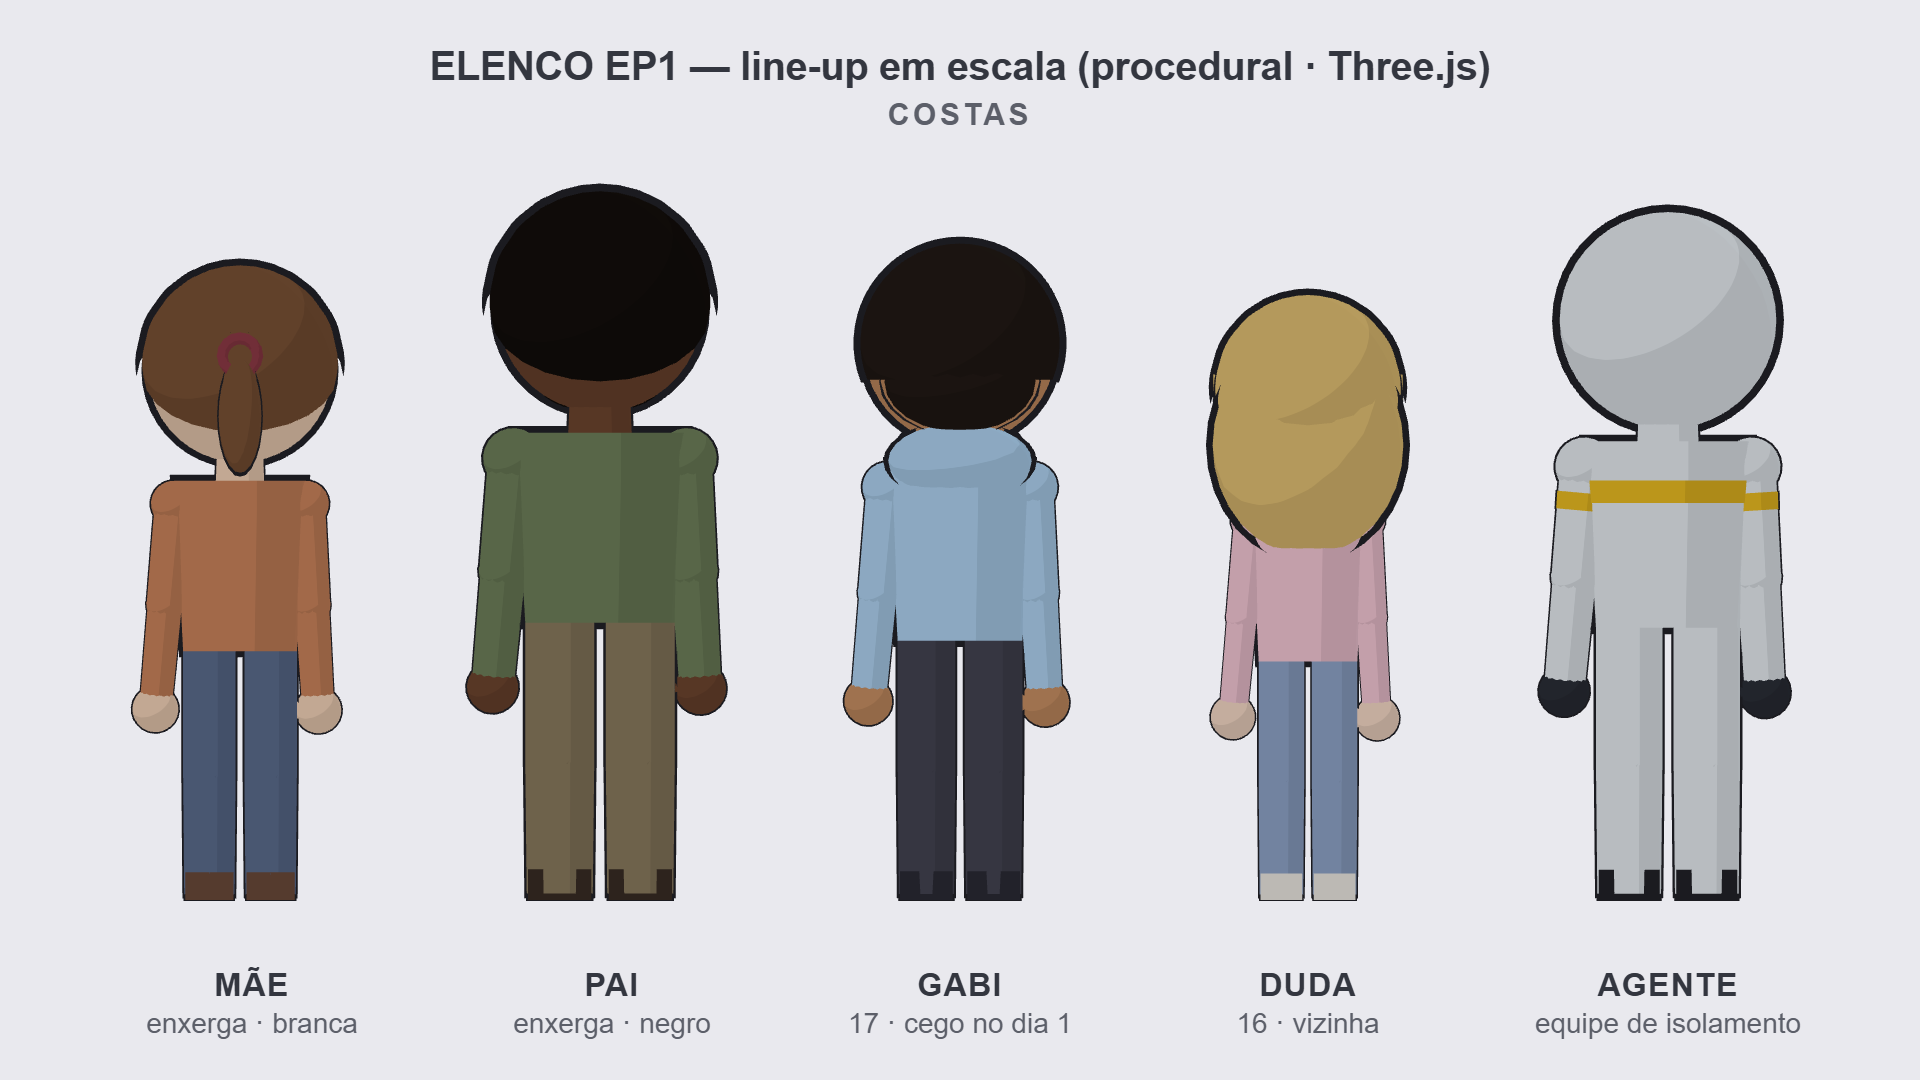
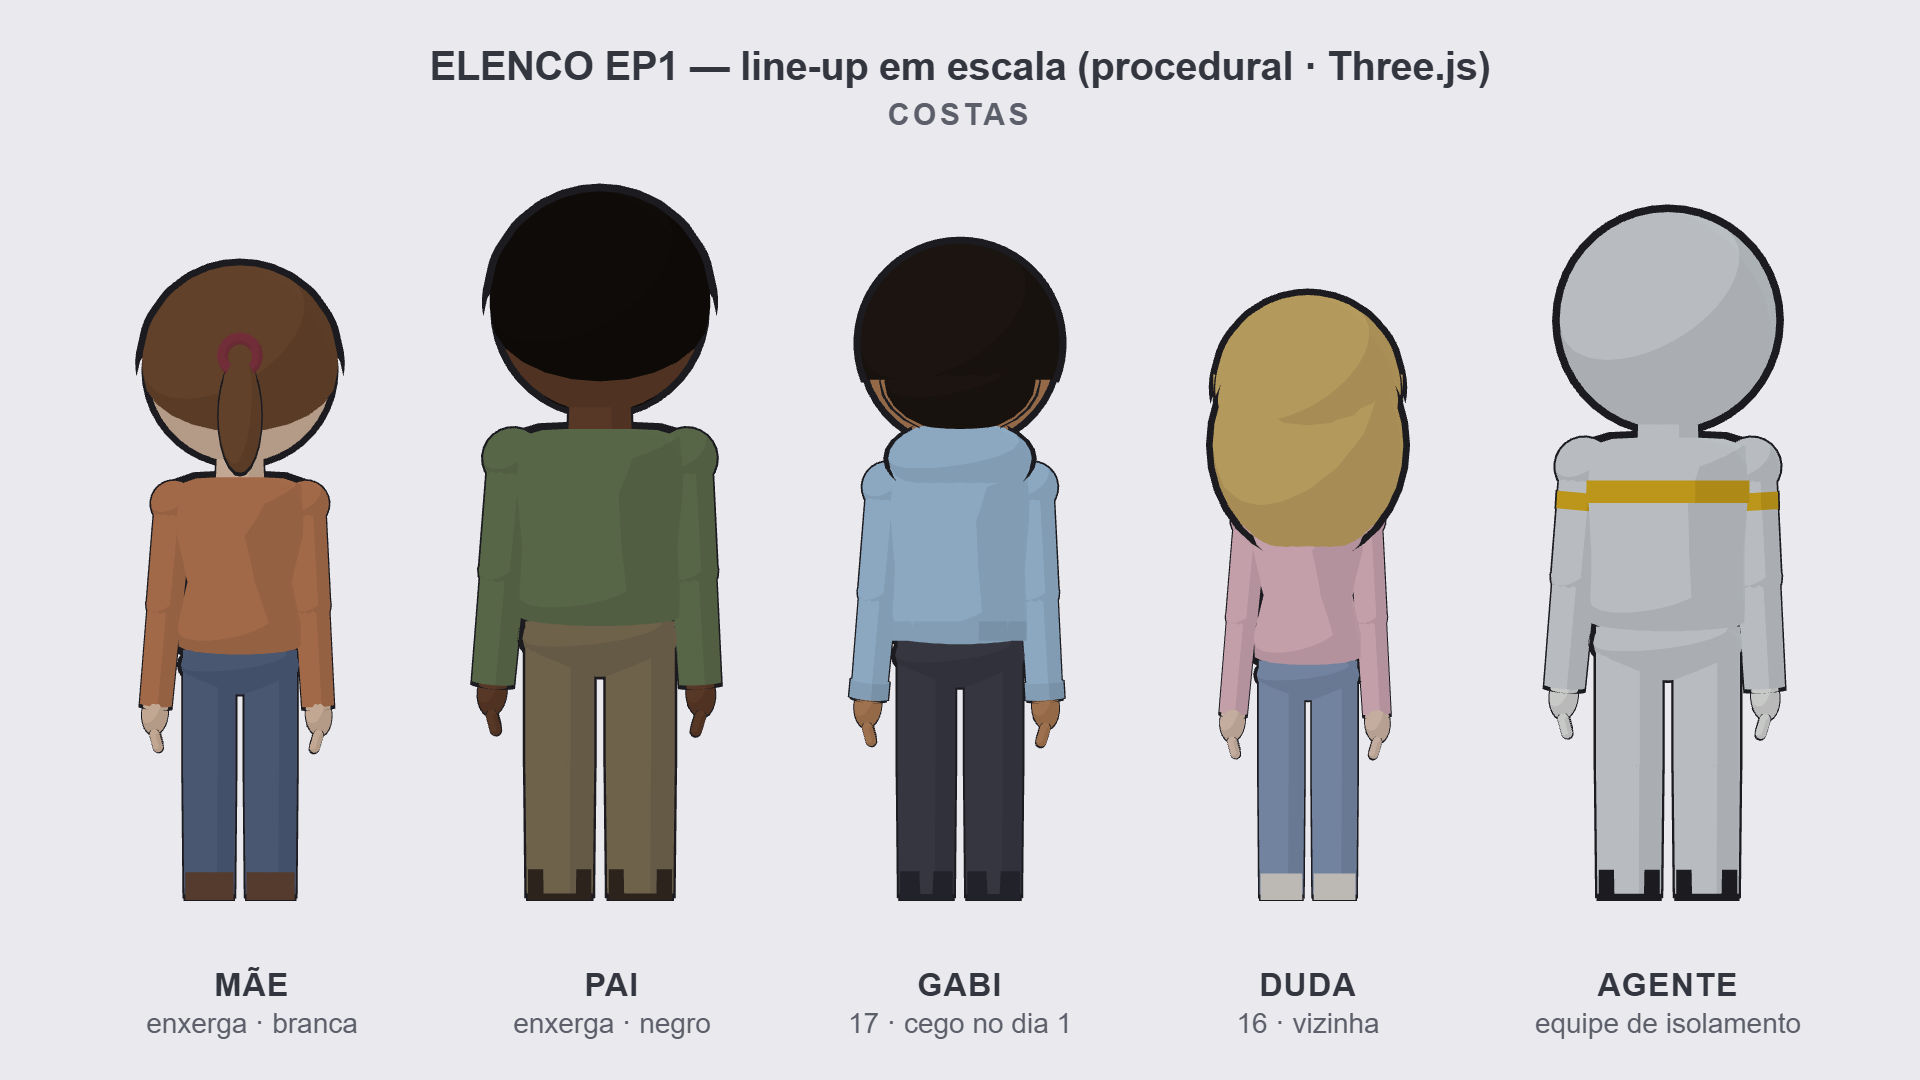
Rig: mãos com dedos (luva branca no agente), cintura torneada e quadril
Elenco.mao(g, lado, forma, u) com formas relaxada/aberta/segura/punho.

diff --git a/producao/ep1/assets/rig/elenco.js b/producao/ep1/assets/rig/elenco.js
@@ -11,19 +11,19 @@
   // Fichas. alt = escala da altura (Gabi = 1); larg = largura do corpo.
   const FICHAS = {
     gabi: { nome: "Gabi", alt: 1.0, larg: 1.0, pele: 0xc68e62, cabelo: 0x241c17, cabeloEstilo: "gabi",
-            roupa: 0xaed0ec, calca: 0x454551, sapato: 0x2d2d36, capuz: true, fone: 0x24242a },
+            roupa: 0xaed0ec, calca: 0x454551, sapato: 0x2d2d36, capuz: true, fone: 0x24242a, cintura: 0.93 },
     mae:  { nome: "Mãe", alt: 0.96, larg: 0.95, pele: 0xf0cfb4, cabelo: 0x7a5236, cabeloEstilo: "rabo", blush: 0xf0aaa6,
-            roupa: 0xc9835b, calca: 0x5d6d8c, sapato: 0x6b4b3a },
+            roupa: 0xc9835b, calca: 0x5d6d8c, sapato: 0x6b4b3a, cintura: 0.8 },
     pai:  { nome: "Pai", alt: 1.07, larg: 1.12, pele: 0x6e4630, cabelo: 0x16110e, cabeloEstilo: "crespo",
-            barba: true, roupa: 0x6f7f5a, calca: 0x8a7a5e, sapato: 0x3a2e26 },
+            barba: true, roupa: 0x6f7f5a, calca: 0x8a7a5e, sapato: 0x3a2e26, cintura: 0.93 },
     duda: { nome: "Duda", alt: 0.92, larg: 0.86, pele: 0xf3d6c2, cabelo: 0xe0bd72, cabeloEstilo: "longo", blush: 0xf3aeb2, sobrancelha: 0x9a7038,
-            roupa: 0xf2c4d0, calca: 0x8fa3c4, sapato: 0xe9e4dc },
+            roupa: 0xf2c4d0, calca: 0x8fa3c4, sapato: 0xe9e4dc, cintura: 0.78 },
     // adulta de TV: olhos menores, batom, brincos, blazer com lapela sobre blusa clara
     reporter: { nome: "Repórter", alt: 0.97, larg: 0.95, pele: 0xd9a77f, cabelo: 0x1a1412, cabeloEstilo: "chanel",
                 blush: 0xd98c7e, roupa: 0x7a2e3a, calca: 0x2b2b33, sapato: 0x1b1b20,
-                olho: 0.82, batom: 0xa3333f, brinco: 0xd9b44a, lapela: 0x5e1f2a, blusa: 0xf1ece4 },
+                olho: 0.82, batom: 0xa3333f, brinco: 0xd9b44a, lapela: 0x5e1f2a, blusa: 0xf1ece4, cintura: 0.8 },
     agente: { nome: "Agente", alt: 1.05, larg: 1.1, pele: 0xd9b08c, roupa: 0xe4e8eb, calca: 0xe4e8eb,
-              sapato: 0x24242a, mao: 0x2d3038, epi: true, faixa: 0xe8b923 },
+              sapato: 0x24242a, mao: 0xf7f7f3, epi: true, faixa: 0xe8b923, cintura: 0.95 },   // luva branca
   };
 
   // a cabeça gira pela base do pescoço (PESCOCO); centro da cabeça em pé = CABECA_Y
@@ -61,7 +61,12 @@
     }
     const pL = leg(-1), pR = leg(1);
     // tronco (topo em 1,82) + pescoço: a cabeça não fica enterrada no corpo
-    add(new THREE.CylinderGeometry(0.30 * w, 0.26 * w, 0.74, 20), P.roupa, 0, 1.45, 0);
+    // tronco torneado (ombro, peito, cintura, quadril) e bacia na cor da calça ligando as pernas
+    const c = P.cintura || 0.88;
+    const perfil = [[0, 1.84], [0.2, 1.83], [0.29, 1.8], [0.305, 1.72], [0.3, 1.58], [0.3 * c, 1.38], [0.285, 1.2], [0.28, 1.1], [0.2, 1.065], [0, 1.06]]
+      .map(([r, y]) => new THREE.Vector2(r * w, y - 1.45)).reverse();   // de baixo p/ cima (normais para fora), centrado: o contorno escala em volta do tronco
+    add(new THREE.LatheGeometry(perfil, 24), P.roupa, 0, 1.45, 0);
+    add(sphere(0.27 * w, 20, 14), P.calca, 0, 1.02, 0, g, { s: [1, 0.5, 0.8] });
     add(new THREE.CylinderGeometry(0.105 * w, 0.115 * w, 0.26, 14), P.epi ? P.roupa : P.pele, 0, 1.9, 0);
     if (P.capuz) { // moletom (referência do usuário, 2026-11-22): capuz caído em gola, cordões, bolso canguru, ribanas
       const rib = new THREE.Color(P.roupa).multiplyScalar(0.86).getHex();
@@ -75,7 +80,7 @@
       add(new THREE.BoxGeometry(0.4, 0.22, 0.05), P.roupa, 0, 1.25, 0.265, g, { semContorno: true });          // bolso canguru: só costuras
       add(new THREE.BoxGeometry(0.26, 0.012, 0.012), rib, 0, 1.36, 0.292, g, { semContorno: true });
       for (const s of [-1, 1]) add(new THREE.BoxGeometry(0.012, 0.2, 0.012), rib, s * 0.18, 1.26, 0.293, g, { r: [0, 0, s * 0.35], semContorno: true });   // boca do bolso
-      add(new THREE.CylinderGeometry(0.268 * w, 0.262 * w, 0.08, 20), rib, 0, 1.12, 0);                          // barra de ribana
+      add(new THREE.CylinderGeometry(0.286 * w, 0.283 * w, 0.08, 20), rib, 0, 1.12, 0);                          // barra de ribana
     }
     if (P.fone && P.foneNoPescoco) {   // fone fora do pescoço por padrão (usuário não gostou do aro preto) // objeto-assinatura do Gabi: fone no pescoço
       // aro largo e solto, caído para a frente sobre o peito (não aperta o pescoço); conchas na clavícula
@@ -89,7 +94,7 @@
       for (const s of [-1, 1]) add(new THREE.BoxGeometry(0.08, 0.44, 0.04), P.lapela, s * 0.1, 1.7, 0.285, g, { r: [-0.1, 0, -s * 0.3] });
     }
     if (P.faixa) { // EPI: faixa refletiva no peito
-      add(new THREE.CylinderGeometry(0.297 * w, 0.29 * w, 0.09, 20), P.faixa, 0, 1.62, 0);
+      add(new THREE.CylinderGeometry(0.308 * w, 0.308 * w, 0.09, 20), P.faixa, 0, 1.62, 0);
     }
     // braços (ombro -> cotovelo, com juntas para posar)
     function arm(side) {
@@ -101,8 +106,19 @@
       add(sphere(0.085 * w, 14, 10), P.roupa, 0, 0, 0, el);                              // cotovelo sem fresta ao dobrar
       add(new THREE.CylinderGeometry(0.08 * w, 0.075 * w, 0.44, 14), P.roupa, 0, -0.22, 0, el);
       if (P.capuz) add(new THREE.CylinderGeometry(0.083 * w, 0.083 * w, 0.07, 14), new THREE.Color(P.roupa).multiplyScalar(0.86).getHex(), 0, -0.41, 0, el);   // punho de ribana
-      add(sphere(0.10, 14, 12), P.mao || P.pele, 0, -0.46, 0, el);
-      return { sh, el };
+      // mão (referência do usuário): palma achatada voltada para o corpo, 4 dedos e polegar à frente
+      const cm = P.mao || P.pele, mao = new THREE.Group(); mao.position.set(0, -0.41, 0); mao.scale.setScalar(1.35); el.add(mao);
+      add(sphere(0.07, 14, 12), cm, 0, -0.05, 0, mao, { s: [0.6, 1.0, 0.9] });
+      const dedos = [];
+      for (let i = 0; i < 4; i++) {
+        const d = new THREE.Group(); d.position.set(0, -0.1, (i - 1.5) * 0.031); mao.add(d);
+        add(new THREE.CapsuleGeometry(0.016, 0.055 - Math.abs(i - 1.2) * 0.01, 4, 8), cm, 0, -0.035, 0, d);
+        dedos.push(d);
+      }
+      const pol = new THREE.Group(); pol.position.set(-side * 0.012, -0.045, 0.05); mao.add(pol);
+      add(new THREE.CapsuleGeometry(0.018, 0.04, 4, 8), cm, 0, -0.03, 0, pol);
+      const ret = { sh, el, mao: { g: mao, dedos, pol, side } };
+      return ret;
     }
     const aL = arm(-1), aR = arm(1);
 
@@ -194,6 +210,7 @@
       aL.sh.rotation.z = -0.06; aR.sh.rotation.z = 0.09;
       aL.el.rotation.x = -0.08; aR.el.rotation.x = -0.14;
     }
+    for (const b of [aL, aR]) { b.mao.dedos.forEach((d) => d.rotation.set(0, 0, -b.mao.side * 0.35)); b.mao.pol.rotation.set(-0.54, 0, -b.mao.side * 0.2); }
     g.traverse((o) => { if (o.isMesh && o.material !== outlineMat) { o.castShadow = true; o.receiveShadow = true; } });
     g.scale.setScalar(P.alt);
     g.userData.rig = { head, aL, aR, pL, pR, ficha: P };
@@ -303,5 +320,15 @@
     return bc;
   }
 
-  window.Elenco = { FICHAS, EXPR, CABECA_Y, build, expressao, cabeca, alcancar };
+  // Formas da mão: "relaxada" (padrão), "aberta" (tateando), "segura" (copo, fone), "punho". u mistura com a relaxada.
+  const MAOS = { relaxada: [0.35, 0.2], aberta: [0.05, -0.1], segura: [1.1, 0.6], punho: [1.75, 1.1] };
+  function mao(g, lado, forma, u) {
+    const rig = g.userData.rig, m = (lado === "esq" ? rig.aR : rig.aL).mao;
+    const A = MAOS.relaxada, B = MAOS[forma] || A, k = u === undefined ? 1 : u;
+    const curl = A[0] + (B[0] - A[0]) * k, pol = A[1] + (B[1] - A[1]) * k;
+    m.dedos.forEach((d, i) => { d.rotation.set(0, 0, -m.side * curl * (1 + i * 0.06)); });   // dobra para a palma
+    m.pol.rotation.set(-0.6 + 0.3 * pol, 0, -m.side * pol);
+  }
+
+  window.Elenco = { FICHAS, EXPR, CABECA_Y, mao, build, expressao, cabeca, alcancar };
 })();

diff --git a/producao/ep1/compositions/corredor.html b/producao/ep1/compositions/corredor.html
@@ -93,8 +93,7 @@
         b.el.rotation.set(A[1].x + (B[1].x - A[1].x) * u, A[1].y + (B[1].y - A[1].y) * u, A[1].z + (B[1].z - A[1].z) * u);
       };
       // mãos fechadas: as esferas das mãos encolhem um pouco e achatam (punho)
-      const maos = [];
-      for (const b of [rg.aL, rg.aR]) b.el.traverse((o) => { if (o.isMesh && Math.abs(o.position.y + 0.46) < 0.001) maos.push(o); });
+
 
       // ---------- luz: tarde; claridade da sala atrás da câmera, quarto dele aceso no fundo ----------
       const scene = new THREE.Scene();
@@ -160,7 +159,8 @@
           rg.aL.sh.rotation.z += tremor; rg.aR.sh.rotation.z -= tremor;
         }
         const fecha = t > BATE + 0.1 ? S((t - BATE - 0.1) / 0.4) : 0;
-        for (const m of maos) m.scale.set(1 - 0.12 * fecha, 1 - 0.2 * fecha, 1 - 0.08 * fecha);
+        if (t < BATE) { Elenco.mao(gabi, "dir", "aberta", 1); Elenco.mao(gabi, "esq", "aberta", 1); }   // tateando
+        else { Elenco.mao(gabi, "dir", "punho", fecha); Elenco.mao(gabi, "esq", "punho", fecha); }
         // cabeça e rosto: escuta e conta os passos (boca mexe a cada passo); a batida vira careta de dor; depois a raiva presa
         if (t < BATE) {
           if (rg.ficha.expr !== "firme") Elenco.expressao(gabi, "firme");
